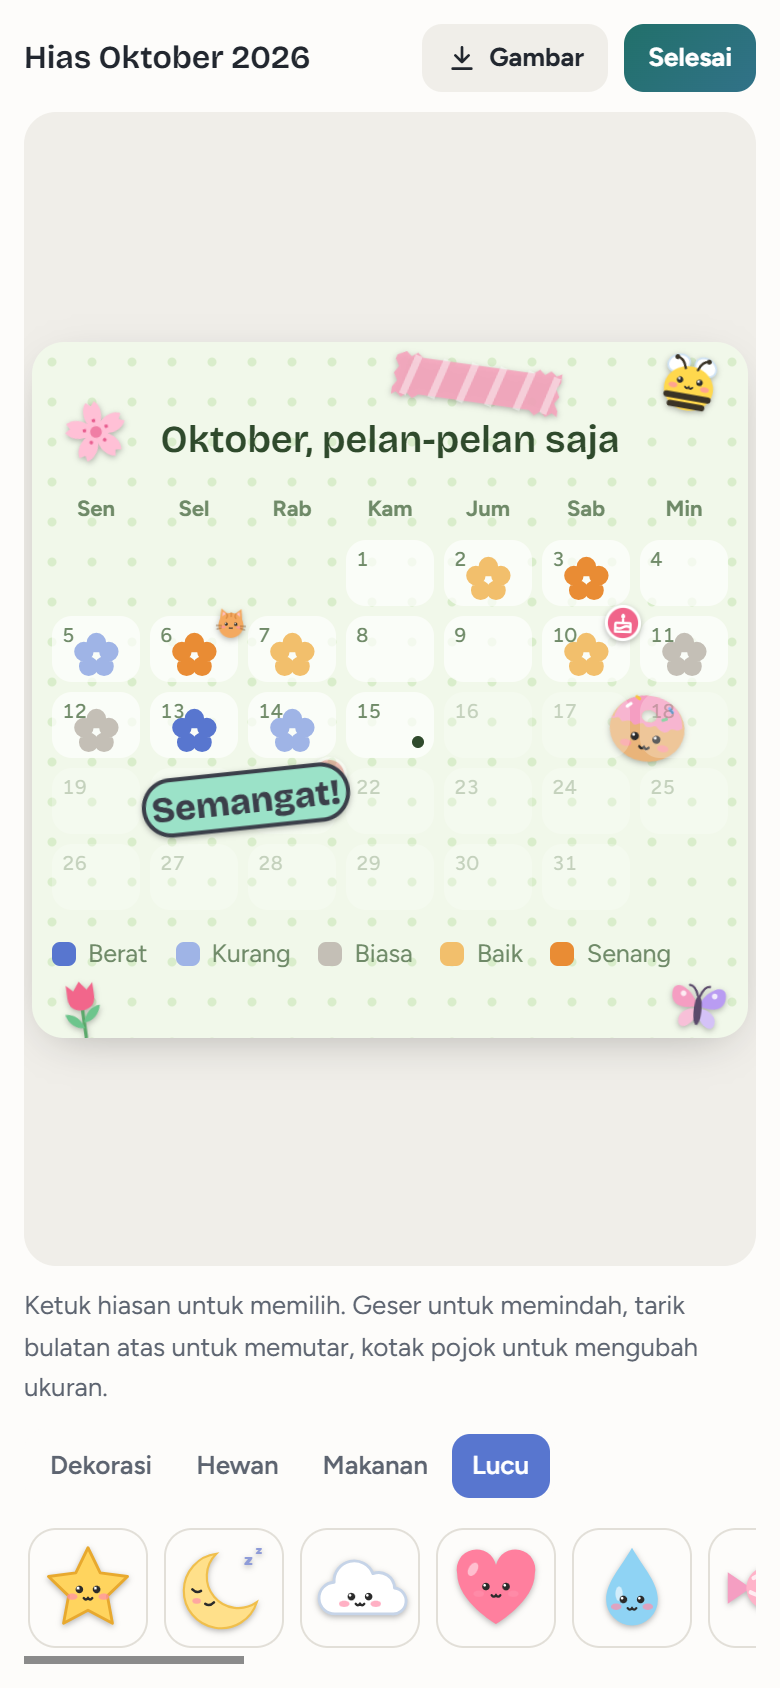
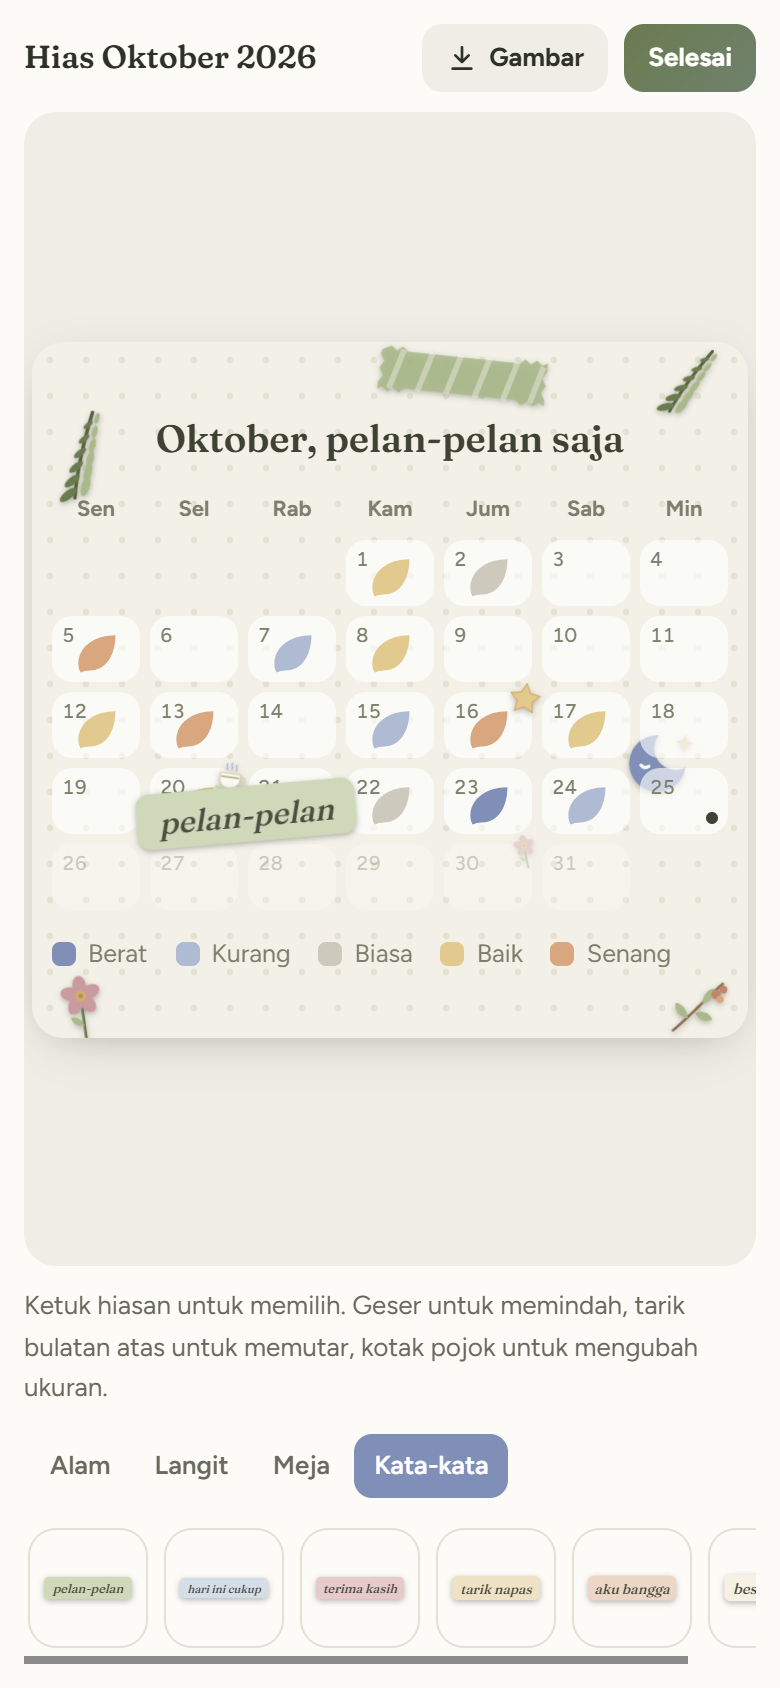
Perbarui README dan screenshot

diff --git a/README.md b/README.md
@@ -9,23 +9,31 @@ Privat, bisa dipakai offline, dan nggak perlu bikin akun.
 
 </div>
 
-![Jurnal Rasa di laptop: menulis catatan di kiri, kalender bertema Kebun bunga di kanan](docs/screenshots/desktop.png)
+![Jurnal Rasa di laptop: kalender bertema Herbarium di halaman kiri, grafik dan ringkasan setahun di halaman kanan](docs/screenshots/desktop-kalender.png)
 
 <table>
   <tr>
     <td align="center" width="25%"><img src="docs/screenshots/tulis.png" alt="Menulis catatan harian"><br><sub><b>Tulis</b><br>Pilih rasa, lalu ceritakan harimu</sub></td>
-    <td align="center" width="25%"><img src="docs/screenshots/kalender.png" alt="Kalender rasa bertema Kebun bunga"><br><sub><b>Kalender</b><br>Sebulan rasamu dalam satu halaman</sub></td>
-    <td align="center" width="25%"><img src="docs/screenshots/hias.png" alt="Menghias halaman bulan dengan stiker"><br><sub><b>Hias</b><br>Tempel stiker di mana saja</sub></td>
+    <td align="center" width="25%"><img src="docs/screenshots/kalender.png" alt="Kalender rasa bertema Herbarium, rasa jadi daun"><br><sub><b>Kalender</b><br>Sebulan rasamu dalam satu halaman</sub></td>
+    <td align="center" width="25%"><img src="docs/screenshots/hias.png" alt="Menghias halaman bulan dengan pakis, selotip, bulan, dan tulisan"><br><sub><b>Hias</b><br>Tempel stiker di mana saja</sub></td>
     <td align="center" width="25%"><img src="docs/screenshots/rekap.png" alt="Rekap bulanan bergaya Wrapped"><br><sub><b>Rekap</b><br>Cerita singkat tiap bulan</sub></td>
   </tr>
 </table>
+
+<details>
+<summary><b>Halaman tulis di laptop</b></summary>
+
+![Halaman tulis di laptop: menulis catatan di halaman kiri, ringkasan minggu ini dan refleksi mingguan di halaman kanan](docs/screenshots/desktop.png)
+
+</details>
 
 ## Kenapa Jurnal Rasa
 
 - **Privat sepenuhnya.** Semua catatan disimpan di perangkatmu sendiri. Tidak ada server, tidak ada akun, tidak ada yang ikut membaca.
 - **Ringan dan cepat.** Cuma HTML, CSS, dan JavaScript. Bisa dipasang di HP seperti aplikasi biasa dan tetap jalan tanpa internet.
 - **Lembut, bukan menuntut.** Tidak ada target menulis yang bikin merasa bersalah. Saat beberapa hari terasa berat, aplikasinya menawarkan latihan napas dan kontak bantuan.
-- **Nyaman di mata.** Warna hangat yang tidak silau, mode gelap, pilihan huruf lebih besar, dan opsi mengurangi animasi.
+- **Terasa seperti buku.** Di laptop, setiap tab terbuka sebagai dua halaman buku dengan pita pembatas. Di HP, kertasnya penuh layar dan kolom tulisnya bergaris.
+- **Nyaman di mata.** Palet Lumut & Pasir yang redup dan tidak silau, mode gelap, pilihan huruf lebih besar, dan opsi mengurangi animasi.
 
 ## Fitur
 
@@ -33,21 +41,22 @@ Privat, bisa dipakai offline, dan nggak perlu bikin akun.
 - Pilih rasa dari **Berat** sampai **Senang**, lalu kata perasaan yang lebih tepat seperti cemas, lega, atau bangga
 - Pertanyaan pemantik yang menyesuaikan rasa, atau pilih tema: diri sendiri, hubungan, kerja, masa depan, syukur
 - Mode menulis fokus layar penuh, dan bicara jadi tulisan lewat mikrofon
-- Isi cepat yang boleh dilewati: label, energi, jam tidur, tiga hal yang disyukuri, kebiasaan, dan satu foto
+- Isi cepat yang boleh dilewati: label, energi, jam tidur, tiga hal yang disyukuri, kebiasaan, cuaca, coretan tangan, dan satu foto
+- Di hari yang berat, halaman tulis dibuat lebih sederhana
 - Niat harian, refleksi mingguan, dan kilas balik catatan seminggu, sebulan, atau setahun lalu
 - Draf tersimpan otomatis, dan hapus catatan bisa diurungkan
 
 ### Kalender yang bisa dihias
 - Kalender rasa, grafik naik turun bulanan, dan ringkasan setahun
-- **13 template halaman**, dari Buku tulis dan Bullet journal sampai Langit malam, Kebun bunga, dan Bawah laut. Di template lucu, tanda rasa berubah jadi bintang, bunga, hati, jejak kaki, atau gelembung
-- **Lebih dari 100 stiker**: dekorasi, hewan, makanan, dan kata-kata. Bisa ditempel di tanggal atau di mana saja di halaman, lalu digeser, diputar, diubah ukurannya, atau ditaruh di balik tanggal
+- **8 template halaman** yang senada tema, dari Bulatan dan Buku bergaris sampai Herbarium, Embun pagi, Teh sore, dan Malam tenang. Di sebagian template, tanda rasa berubah jadi daun, tetes embun, kerikil, cangkir, cap, atau bulan
+- Stiker dan hiasan Alam, Langit, Meja, dan Kata-kata. Bisa ditempel di tanggal atau di mana saja di halaman, lalu digeser, diputar, diubah ukurannya, atau ditaruh di balik tanggal
 - Bikin stiker sendiri dari emoji atau tulisan pendek
-- Simpan halaman bulan sebagai gambar PNG
+- Simpan halaman bulan sebagai gambar PNG, atau satu **buku tahunan**: sampul, rekap setahun dan empat musim, lalu semua halaman bulan dalam satu gambar
 
 ### Wawasan
 - Apa yang membuat harimu lebih baik, dilihat dari label, kebiasaan, tidur, dan energi
 - Perasaan yang paling sering muncul tiap bulan, dan rasa per hari dalam seminggu
-- **Rekap bulanan bergaya Wrapped** yang bisa disimpan sebagai gambar
+- **Rekap bulanan bergaya Wrapped** yang bisa disimpan sebagai gambar, dan rekap musim (tiga bulan terakhir)
 
 ### Koleksi
 - Dinding syukur, daftar refleksi mingguan, buku stiker, kapsul waktu (surat untuk dirimu beberapa bulan lagi), dan lencana
@@ -55,8 +64,9 @@ Privat, bisa dipakai offline, dan nggak perlu bikin akun.
 ### Privasi dan kenyamanan
 - Kunci PIN, dan pilihan menyembunyikan isi catatan sampai disentuh
 - Backup ke satu file dan pulihkan kapan saja
-- Pengingat harian, tema terang dan gelap, huruf lebih besar, dan kurangi animasi
-- Fitur tambahan bisa dimatikan supaya tampilannya lebih lega
+- Pengingat harian, tema terang dan gelap, huruf lebih besar, kurangi animasi, pilihan sampul buku, dan suara kertas (mati secara bawaan)
+- Semua fitur pilihan (niat, kata perasaan, energi, kebiasaan, cuaca, coretan, foto, kenangan, rekap musim, refleksi, kapsul waktu, lencana) diatur di satu tempat: Pengaturan > Fitur yang ditampilkan
+- Panduan singkat tiga halaman untuk pengguna baru, bisa dibuka lagi dari Pengaturan
 
 ## Mencoba
 
@@ -82,8 +92,8 @@ Cara ini cukup untuk mencoba, tapi aplikasinya belum bisa dipasang atau dipakai 
 
 - **HTML, CSS, dan JavaScript murni.** Tanpa framework, tanpa proses build, tanpa dependensi.
 - **Progressive Web App:** service worker untuk mode offline, dan manifest supaya bisa dipasang.
-- **Canvas API** untuk menyimpan halaman kalender dan rekap sebagai gambar.
-- **Web Speech API** untuk bicara jadi tulisan.
+- **Canvas API** untuk menyimpan halaman kalender, rekap, dan buku tahunan sebagai gambar, serta untuk coretan tangan.
+- **Web Speech API** untuk bicara jadi tulisan, dan **Web Audio API** untuk suara kertas yang dibuat langsung tanpa file suara.
 - **localStorage** untuk menyimpan semua data di perangkat.
 
 <details>
@@ -94,7 +104,8 @@ Cara ini cukup untuk mencoba, tapi aplikasinya belum bisa dipasang atau dipakai 
 | `index.html` | Struktur halaman dan dialog |
 | `manifest.webmanifest` | Nama, ikon, dan warna aplikasi saat dipasang di HP |
 | `sw.js` | Service worker untuk mode offline. Kalau menambah file baru, tambahkan ke `CORE` dan naikkan versi `CACHE` |
-| `icons/` | Ikon aplikasi |
+| `icons/` | Ikon aplikasi dan logo Rembulan (`logo.svg`) |
+| `docs/screenshots/` | Gambar untuk README ini |
 | `css/dasar.css` | Reset, warna tema terang dan gelap, huruf, komponen kecil |
 | `css/tata-letak.css` | Header, banner, grid, panel, tab, dan penyesuaian HP |
 | `css/editor.css` | Halaman menulis |
@@ -106,6 +117,7 @@ Cara ini cukup untuk mencoba, tapi aplikasinya belum bisa dipasang atau dipakai 
 | `css/dialog.css` | Semua dialog, termasuk pengaturan |
 | `css/stiker.css` | Stiker di tanggal, laci stiker, buku stiker |
 | `css/template.css` | Template halaman bulan dan layar hias |
+| `css/tenang.css` | Tampilan "buku terbuka": dua halaman di desktop, pita pembatas, kertas penuh layar di HP, logo, kalender bulatan |
 | `css/cetak.css` | Tampilan saat dicetak atau disimpan ke PDF |
 | `js/inti.js` | Konstanta, helper, state, dan penyimpanan bersama |
 | `js/editor.js` | Menulis catatan, isi cepat, draf otomatis |
@@ -118,13 +130,14 @@ Cara ini cukup untuk mencoba, tapi aplikasinya belum bisa dipasang atau dipakai 
 | `js/catatan.js` | Cari, saring, daftar catatan, cetak |
 | `js/koleksi.js` | Dinding syukur, kapsul waktu, lencana |
 | `js/stiker.js` | Stiker bawaan, stiker buatan sendiri, mode tempel |
-| `js/hewan.js` | Stiker hewan dan dekorasi tambahan |
-| `js/lucu.js` | Stiker makanan dan kata-kata, serta template lucu (`CUTE_TPL`, `SHAPES`) |
+| `js/hiasan.js` | Mesin template berbentuk (`CUTE_TPL`, `SHAPES`), stiker dan hiasan Alam, Langit, Meja, Kata-kata, template Herbarium, Embun pagi, Taman batu, Teh sore, Kertas kraft, Malam tenang, dan `muatLama` |
+| `js/lama.js` | Stiker dan hiasan versi lama (hewan, makanan, selotip warna-warni). Tidak dimuat di awal; hanya dimuat kalau masih ada yang tertempel |
 | `js/hias.js` | Template, mode hias, dan simpan halaman sebagai PNG |
 | `js/napas.js` | Latihan napas |
-| `js/pengaturan.js` | Tema, backup, pengingat, PIN, dan pilihan tampilan |
-| `js/sambutan.js` | Panduan untuk pengguna baru |
-| `js/main.js` | Tab dan urutan saat aplikasi dibuka (dimuat paling akhir) |
+| `js/pengaturan.js` | Tema, backup, pengingat, PIN, pilihan tampilan, dan daftar fitur pilihan (`FEATS`) |
+| `js/sambutan.js` | Panduan tiga halaman untuk pengguna baru |
+| `js/fitur.js` | Cuaca, coretan tangan, mode hari yang berat, rekap musim, sampul buku, pembatas terakhir dibaca, suara kertas (Web Audio), buku tahunan |
+| `js/main.js` | Tab, susunan dua halaman buku di desktop (`SPREADS`, `layoutBook`), dan urutan saat aplikasi dibuka (dimuat paling akhir) |
 
 File JS dan CSS dimuat berurutan seperti di `index.html`, tanpa build. Kalau mengubah bentuk tanda rasa di `css/template.css`, ubah juga `drawCell` di `js/hias.js` supaya gambar PNG tetap sama dengan tampilan.
 
@@ -143,7 +156,7 @@ Semua data disimpan di `localStorage` browser, jadi hanya ada di browser dan per
 
 | Kunci | Isi |
 |---|---|
-| `jurnal-rasa:entries` | Catatan per tanggal, termasuk kata perasaan, foto, syukur, dan kebiasaan |
+| `jurnal-rasa:entries` | Catatan per tanggal, termasuk kata perasaan, cuaca, coretan, foto, syukur, dan kebiasaan |
 | `jurnal-rasa:intents` | Niat harian dan hasilnya |
 | `jurnal-rasa:reflections` | Refleksi mingguan |
 | `jurnal-rasa:stickers` | Stiker per tanggal dan stiker buatan sendiri |
@@ -153,9 +166,10 @@ Semua data disimpan di `localStorage` browser, jadi hanya ada di browser dan per
 | `jurnal-rasa:capsules`, `jurnal-rasa:badges` | Kapsul waktu dan lencana |
 | `jurnal-rasa:settings` | Pengaturan, PIN (disimpan sebagai hash), dan kontak yang dipercaya |
 | `jurnal-rasa:theme`, `jurnal-rasa:ptheme` | Tema tampilan dan tema pertanyaan |
+| `jurnal-rasa:cover`, `jurnal-rasa:lastread` | Sampul buku yang dipilih dan pembatas catatan terakhir dibaca |
 
 **Batasan:**
-- Kapasitas `localStorage` sekitar 5 MB. Foto dikecilkan sampai 30–60 KB, jadi muat kira-kira 80–150 foto.
+- Kapasitas `localStorage` sekitar 5 MB. Foto dikecilkan sampai 30–60 KB, jadi muat kira-kira 80–150 foto. Coretan tangan juga disimpan sebagai gambar dan ikut memakai tempat.
 - Kunci PIN dan kapsul waktu hanya mengunci tampilan. Isinya tidak dienkripsi.
 - Pengingat hanya muncul selama aplikasi terbuka.
 - Setelah aplikasi diperbarui, versi barunya baru terlihat saat aplikasi dibuka untuk kedua kalinya.
